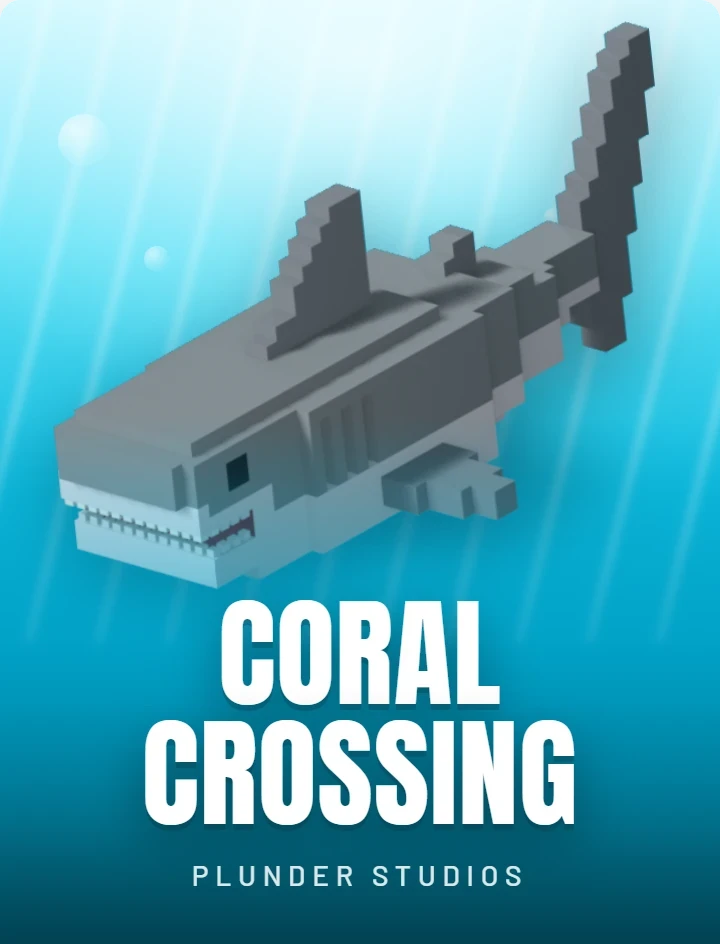
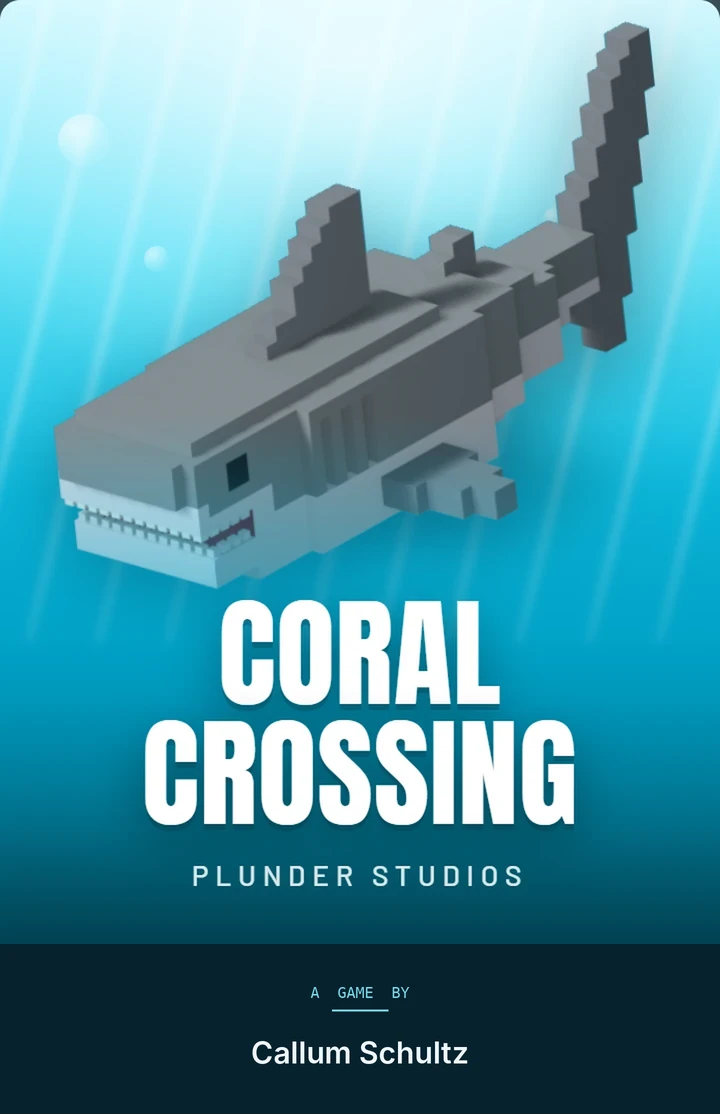
Fill in Coral Crossing case study
Synopsis, facts (solo, 2 weeks, Unreal Engine, PC) and tools from
Callum's notes; brief, role and process sections removed as requested
for this personal project. Poster gains a 'A game by Callum Schultz'
credit panel. Gallery drops the cover and leads with two gameplay
shots and a level-tile render before the model renders.

Claude-Session: https://claude.ai/code/session_01JXZiRNSBb1HjVTSAQPNB2g

diff --git a/projects/project-3.html b/projects/project-3.html
@@ -4,7 +4,7 @@
   <meta charset="utf-8">
   <meta name="viewport" content="width=device-width, initial-scale=1">
   <title>Coral Crossing – Callum Schultz</title>
-  <meta name="description" content="Coral Crossing: [one-line synopsis]. Case study by Callum Schultz.">
+  <meta name="description" content="Coral Crossing: an underwater-themed, Crossy Road-style game made solo in Unreal Engine by Callum Schultz.">
   <script>document.documentElement.classList.add('js')</script>
   <link rel="stylesheet" href="../css/style.css">
 </head>
@@ -49,7 +49,7 @@
     c. Project brief                                     → #brief
     d. My role and contribution                          → #role
     e. Technologies / software / languages / engines     → #tools
-    f. Process work                                      → #process
+    f. Process work                                      → (removed for this personal project; tile render is in the gallery)
     g. Demo video URL / QR                               → #links (screenshot gallery for now – no video yet)
     h. Download URL / QR                                 → #links
   -->
@@ -59,22 +59,23 @@
       <div class="container project-hero__grid">
         <!-- (a) Poster -->
         <div id="poster">
-          <img class="poster" src="../assets/img/project-3/poster.webp" width="720" height="944"
-               alt="Coral Crossing poster by Plunder Studios: a blocky voxel shark swimming through sunlit blue water">
+          <img class="poster" src="../assets/img/project-3/poster.webp" width="720" height="1114"
+               alt="Coral Crossing poster by Plunder Studios: a blocky voxel shark swimming through sunlit blue water. A game by Callum Schultz.">
         </div>
 
         <div>
           <span class="tag tag--personal">Personal project</span>
           <h1>Coral Crossing</h1>
           <!-- (b) Synopsis -->
-          <p id="synopsis" class="hero__intro"><span class="todo">TODO: short synopsis of the game (2–3 sentences).</span></p>
+          <p id="synopsis" class="hero__intro">I wanted to make an underwater-themed, Crossy Road-style game.</p>
+          <p class="credits"><span>A game by</span> Callum Schultz</p>
 
           <dl class="facts">
-            <div><dt>My role</dt><dd>[e.g. Level Designer]</dd></div>
-            <div><dt>Team size</dt><dd>[n people]</dd></div>
-            <div><dt>Duration</dt><dd>[n weeks]</dd></div>
-            <div><dt>Engine</dt><dd>[Unity / Unreal]</dd></div>
-            <div><dt>Platform</dt><dd>[PC]</dd></div>
+            <div><dt>My role</dt><dd>Everything (solo project)</dd></div>
+            <div><dt>Team size</dt><dd>1 person</dd></div>
+            <div><dt>Duration</dt><dd>2 weeks</dd></div>
+            <div><dt>Engine</dt><dd>Unreal Engine</dd></div>
+            <div><dt>Platform</dt><dd>PC</dd></div>
           </dl>
 
           <div class="btn-row" style="margin-top:28px">
@@ -84,70 +85,21 @@
       </div>
     </section>
 
-    <!-- (c) Project brief -->
-    <section class="section" id="brief">
-      <div class="container case-block">
-        <h2>The brief</h2>
-        <div class="prose">
-          <p><span class="todo">TODO: what the assignment asked for – constraints, theme, deliverables, timeframe.</span></p>
-        </div>
-      </div>
-    </section>
 
-    <!-- (d) Role and contribution -->
-    <section class="section" id="role">
-      <div class="container case-block">
-        <h2>My role &amp; contribution</h2>
-        <div class="prose">
-          <p><span class="todo">TODO: your role on the team.</span></p>
-          <ul>
-            <li>[Specific thing you designed/built – problem → decision → outcome]</li>
-            <li>[Specific thing you designed/built]</li>
-            <li>[Specific thing you designed/built]</li>
-          </ul>
-        </div>
-      </div>
-    </section>
 
     <!-- (e) Tools -->
     <section class="section" id="tools">
       <div class="container case-block">
         <h2>Tools &amp; tech</h2>
         <ul class="chip-list">
-          <li>[Engine]</li>
-          <li>[Language]</li>
-          <li>[Software]</li>
-          <li>[Software]</li>
+          <li>Unreal Engine</li>
+          <li>C++</li>
+          <li>Blender</li>
+          <li>JetBrains Rider</li>
         </ul>
       </div>
     </section>
 
-    <!-- (f) Process work -->
-    <section class="section" id="process">
-      <div class="container">
-        <span class="eyebrow">Process</span>
-        <h2>From sketch to build</h2>
-        <div class="process-grid">
-          <figure>
-            <!-- PLACEHOLDER image: overwrite the file with the real one (same name), then update the alt text. -->
-            <img src="../assets/img/project-3/process-1.webp" width="1200" height="675" alt="[Describe: sketch / paper map]" loading="lazy">
-            <figcaption>[What this shows and what you learned.]</figcaption>
-          </figure>
-          <figure>
-            <img src="../assets/img/project-3/process-2.webp" width="1200" height="675" alt="[Describe: greybox]" loading="lazy">
-            <figcaption>[Caption]</figcaption>
-          </figure>
-          <figure>
-            <img src="../assets/img/project-3/process-3.webp" width="1200" height="675" alt="[Describe: design doc / diagram]" loading="lazy">
-            <figcaption>[Caption]</figcaption>
-          </figure>
-          <figure>
-            <img src="../assets/img/project-3/process-4.webp" width="1200" height="675" alt="[Describe: final iteration]" loading="lazy">
-            <figcaption>[Caption]</figcaption>
-          </figure>
-        </div>
-      </div>
-    </section>
 
     <!-- (g) Screenshots (no demo video yet) + (h) Download -->
     <section class="section" id="links">
@@ -166,11 +118,13 @@
         -->
         <div class="gallery" data-gallery>
           <button class="gallery__main" type="button" aria-label="View screenshot full size">
-            <img src="../assets/img/project-3/cover.webp" width="1600" height="900" alt="Coral Crossing cover art: a blocky voxel shark swimming through sunlit blue water, with the title and Plunder Studios" loading="lazy">
+            <img src="../assets/img/project-3/play-1.webp" width="1206" height="678" alt="Coral Crossing gameplay: the diver character stands on a sandy lane between coral reefs as a piranha and a shark swim along the track ahead" loading="lazy">
             <span class="gallery__hint" aria-hidden="true">Click to enlarge</span>
           </button>
           <div class="gallery__thumbs" role="group" aria-label="Screenshots">
-            <button class="gallery__thumb" type="button" aria-pressed="true"><img src="../assets/img/project-3/cover.webp" width="1600" height="900" alt="Coral Crossing cover art: a blocky voxel shark swimming through sunlit blue water, with the title and Plunder Studios" loading="lazy"></button>
+            <button class="gallery__thumb" type="button" aria-pressed="true"><img src="../assets/img/project-3/play-1.webp" width="1206" height="678" alt="Coral Crossing gameplay: the diver character stands on a sandy lane between coral reefs as a piranha and a shark swim along the track ahead" loading="lazy"></button>
+            <button class="gallery__thumb" type="button" aria-pressed="false"><img src="../assets/img/project-3/play-2.webp" width="1161" height="653" alt="Coral Crossing gameplay: the diver waits to cross a track as a barracuda passes, with turtles drifting in the lane below" loading="lazy"></button>
+            <button class="gallery__thumb" type="button" aria-pressed="false"><img src="../assets/img/project-3/tiles.webp" width="1205" height="678" alt="Coral Crossing level tiles: a voxel water lane with a track, a sand lane and a seagrass lane" loading="lazy"></button>
             <button class="gallery__thumb" type="button" aria-pressed="false"><img src="../assets/img/project-3/shot-2.webp" width="1365" height="768" alt="Coral Crossing: a voxel barracuda with dark stripes and rows of sharp teeth against teal water" loading="lazy"></button>
             <button class="gallery__thumb" type="button" aria-pressed="false"><img src="../assets/img/project-3/shot-3.webp" width="1365" height="768" alt="Coral Crossing: a voxel great white shark swimming against teal water" loading="lazy"></button>
             <button class="gallery__thumb" type="button" aria-pressed="false"><img src="../assets/img/project-3/shot-4.webp" width="1365" height="768" alt="Coral Crossing: a huge shoal of blocky voxel fish streaming diagonally across teal water" loading="lazy"></button>

diff --git a/index.html b/index.html
@@ -134,9 +134,9 @@
           <a class="project-card" href="projects/project-3.html" data-category="personal">
             <img src="assets/img/project-3/thumb.webp" width="1280" height="720" alt="Coral Crossing" loading="lazy">
             <div class="project-card__body">
-              <span class="tag tag--personal">Personal</span><span class="tag tag--role">[Role]</span>
+              <span class="tag tag--personal">Personal</span><span class="tag tag--role">Solo project</span>
               <h3>Coral Crossing</h3>
-              <p>[One-line hook for the game.]</p>
+              <p>I wanted to make an underwater-themed, Crossy Road-style game.</p>
             </div>
           </a>
         </div>

diff --git a/CLAUDE.md b/CLAUDE.md
@@ -65,7 +65,7 @@ Also: select 2–3 projects that suit the target role, and refine older work so 
 - [ ] Projects (2–3) with images, videos, builds and write-ups
   - Project 1: Garden Growers – https://kaellum.itch.io/garden-growers (hosted on a teammate's itch.io account; Callum's own account stays the contact link. Link + QR done; cover art + 2 gameplay screenshots + 6 asset renders in gallery; process section filled; poster with team credits, brief, role (3D Asset Artist), contribution and tools filled in. Team: Callum Schultz, Craig Harrod, Kaellum Alves, Gift Zowa; 4 people, 3 weeks, Unity, PC. Only a demo video and a true synopsis (currently the brief text) remain)
   - Project 2: Mariana's Secret (cover art + 3 gameplay screenshots in gallery and home card; write-up, team names/poster, process, itch link, video still needed)
-  - Project 3 (Personal): Coral Crossing by Plunder Studios (cover used as poster, home card and first gallery image; 3 model renders in gallery; write-up, team names, process, itch link, video still needed)
+  - Project 3 (Personal): Coral Crossing by Plunder Studios – solo project (Callum Schultz), 2 weeks, Unreal Engine, PC. Poster has creator credit; synopsis and tools filled; brief, role and process sections removed at Callum's request (personal project); gallery: 2 gameplay shots, tile render, 3 model renders. Itch link and video still needed
   - No gameplay videos exist yet, so each project page uses a screenshot gallery in #links (brief item g still wants a demo video)
 - [ ] Appendix B (Showcase online profile requirements)
 - [ ] Marking rubric
